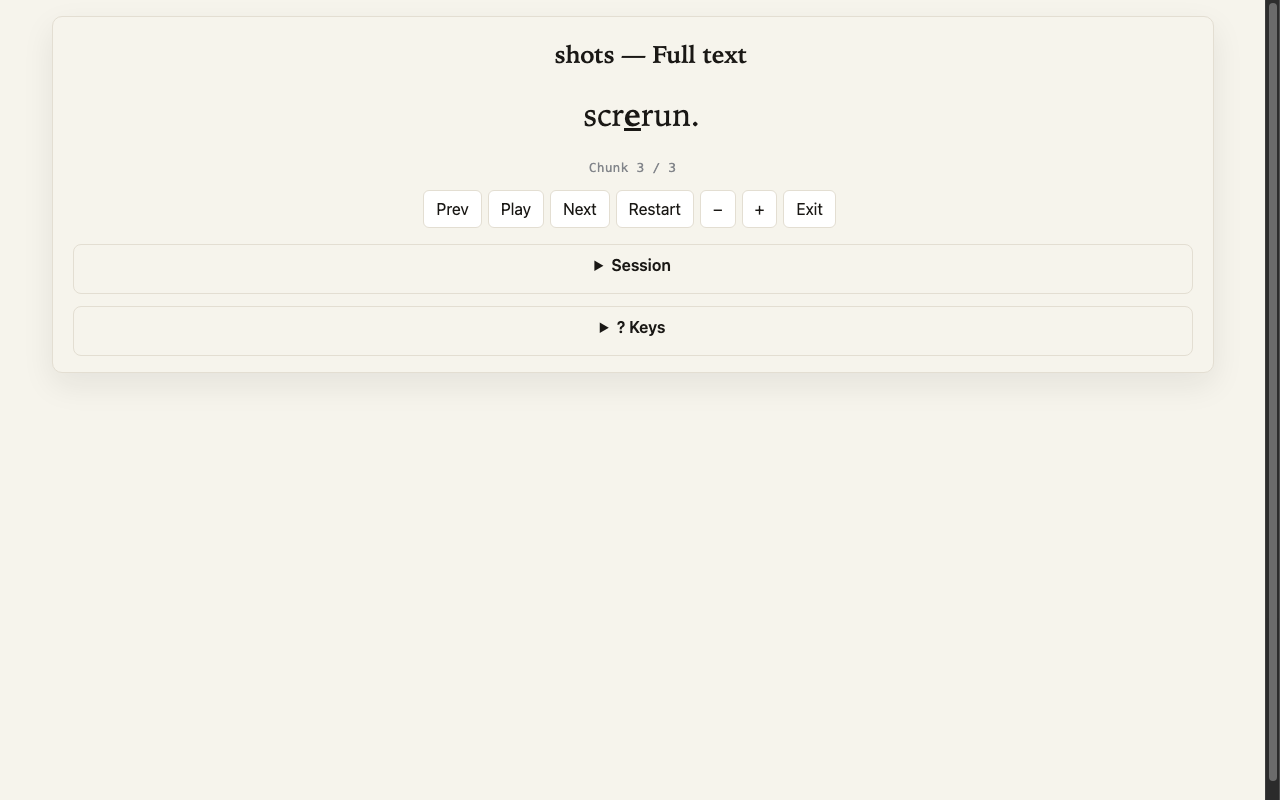
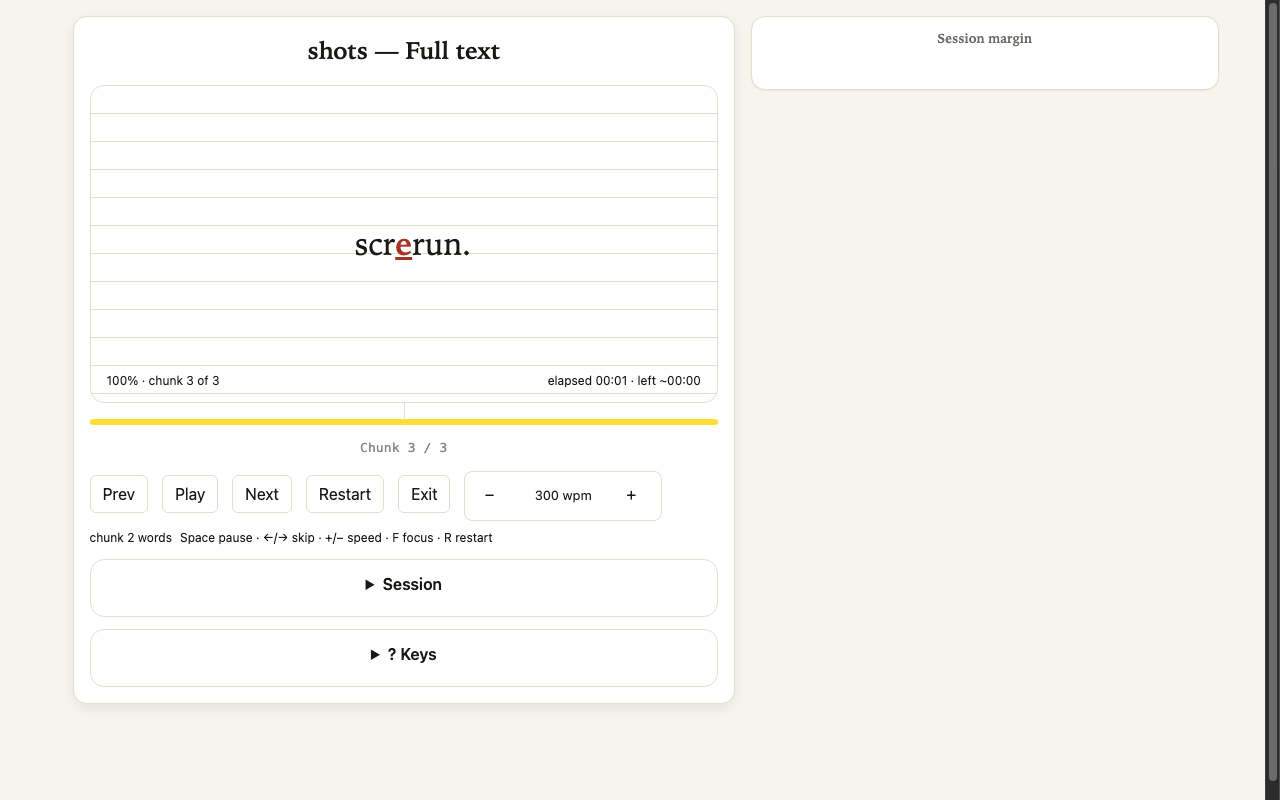
HC-C repair: ticket 27 player fidelity to approved prototype (ruled stage, two-column, rail card, F key)

diff --git a/src/ui/player-view.js b/src/ui/player-view.js
@@ -1,6 +1,6 @@
 // RSVP player view: ORP-anchored renderer, keyboard map, SR/reduced-motion mode, settings controls.
 // Consumes an INJECTED player (src/lib/player.js); never creates timers or players.
-// Contract: createPlayerView(root, {onSessionEnd, onExit, onSettingsChange, onGoalChange})
+// Contract: createPlayerView(root, {onSessionEnd, onExit, onSettingsChange, onGoalChange, onFocusToggle})
 //   -> {start({player, text, goal}), showSrText(text), hide(), renderSettings(settings), renderRail(ticks), setGoal(goal), clearGoal()}
 
 import { announce, prefersReducedMotion } from './a11y.js';
@@ -9,7 +9,7 @@ import { splitSentences as splitSentencesLib } from '../lib/text.js';
 const SENTENCE_END = /[.!?]["')\]]*\s*$/;
 
 
-export function createPlayerView(root, { onSessionEnd, onExit, onSettingsChange, onGoalChange } = {}) {
+export function createPlayerView(root, { onSessionEnd, onExit, onSettingsChange, onGoalChange, onFocusToggle } = {}) {
   let player = null;
   let chunkCount = 0;
   let currentWpm = 300;
@@ -25,8 +25,8 @@ export function createPlayerView(root, { onSessionEnd, onExit, onSettingsChange,
   header.className = 'player-title';
 
   // Goal chip (M-P05B): hidden unless a well-formed goal is set via setGoal().
-  const goalChip = document.createElement('p');
-  goalChip.className = 'player-goal';
+  const goalChip = document.createElement('span');
+  goalChip.className = 'player-goal chip goal';
   goalChip.hidden = true;
 
   const stage = document.createElement('div');
@@ -38,10 +38,30 @@ export function createPlayerView(root, { onSessionEnd, onExit, onSettingsChange,
   orp.className = 'rsvp-orp';
   const right = document.createElement('span');
   right.className = 'rsvp-right';
-  stage.append(left, orp, right);
+  // Prototype: ruled stage with meta rows above/below the anchored word.
+  const stageTop = document.createElement('div');
+  stageTop.className = 'stage-meta top';
+  const stageBottom = document.createElement('div');
+  stageBottom.className = 'stage-meta bottom';
+  const stageCounts = document.createElement('span');
+  stageCounts.className = 'muted data player-counts';
+  const stageClock = document.createElement('span');
+  stageClock.className = 'muted data player-elapsed';
+  stageBottom.append(stageCounts, stageClock);
+  stageTop.append(goalChip);
+  stage.append(stageTop, left, orp, right, stageBottom);
 
   const progress = document.createElement('p');
   progress.className = 'player-progress';
+  const progressBar = document.createElement('div');
+  progressBar.className = 'player-progress-bar';
+  progressBar.setAttribute('role', 'progressbar');
+  progressBar.setAttribute('aria-valuemin', '0');
+  progressBar.setAttribute('aria-valuemax', '100');
+  progressBar.setAttribute('aria-valuenow', '0');
+  progressBar.setAttribute('aria-label', 'Chapter progress');
+  const progressFill = document.createElement('span');
+  progressBar.appendChild(progressFill);
 
   const controls = document.createElement('div');
   controls.className = 'player-controls';
@@ -58,9 +78,29 @@ export function createPlayerView(root, { onSessionEnd, onExit, onSettingsChange,
   const playBtn = makeButton('Play', 'play');
   const nextBtn = makeButton('Next', 'next');
   const restartBtn = makeButton('Restart', 'restart');
-  const slowerBtn = makeButton('−', 'slower');
-  const fasterBtn = makeButton('+', 'faster');
+  // Speed cluster (prototype): − value + in one control.
+  const speedCluster = document.createElement('span');
+  speedCluster.className = 'player-speed';
+  const slowerBtn = document.createElement('button');
+  slowerBtn.type = 'button';
+  slowerBtn.className = 'player-btn player-btn-slower btn quiet';
+  slowerBtn.textContent = '−';
+  slowerBtn.setAttribute('aria-label', 'Slower');
+  const speedValue = document.createElement('span');
+  speedValue.className = 'player-speed-value data';
+  const fasterBtn = document.createElement('button');
+  fasterBtn.type = 'button';
+  fasterBtn.className = 'player-btn player-btn-faster btn quiet';
+  fasterBtn.textContent = '+';
+  fasterBtn.setAttribute('aria-label', 'Faster');
+  speedCluster.append(slowerBtn, speedValue, fasterBtn);
+  const chunkChip = document.createElement('span');
+  chunkChip.className = 'chip player-chunk-chip';
+  const keysHint = document.createElement('span');
+  keysHint.className = 'muted player-keys-hint';
+  keysHint.textContent = 'Space pause · ←/→ skip · +/− speed · F focus · R restart';
   const exitBtn = makeButton('Exit', 'exit');
+  controls.append(speedCluster, chunkChip, keysHint);
 
   const settingsRow = document.createElement('div');
   settingsRow.className = 'player-settings';
@@ -123,7 +163,7 @@ export function createPlayerView(root, { onSessionEnd, onExit, onSettingsChange,
   const helpSummary = document.createElement('summary');
   helpSummary.textContent = '? Keys';
   const helpList = document.createElement('ul');
-  for (const [key, action] of [['Space', 'pause / resume'], ['← →', 'step chunk'], ['↑ ↓ or + −', 'speed'], ['R', 'restart'], ['Esc', 'exit'], ['?', 'this list']]) {
+  for (const [key, action] of [['Space', 'pause / resume'], ['← →', 'step chunk'], ['↑ ↓ or + −', 'speed'], ['R', 'restart'], ['F', 'focus mode'], ['Esc', 'exit'], ['?', 'this list']]) {
     const li = document.createElement('li');
     li.textContent = `${key}: ${action}`;
     helpList.appendChild(li);
@@ -169,16 +209,22 @@ export function createPlayerView(root, { onSessionEnd, onExit, onSettingsChange,
   recognition.append(recognitionPrompt, recognitionForm, recognitionScore);
 
   // Marginalia rail (S3): one pencil tick per session, best in marker.
-  const rail = document.createElement('div');
+  const rail = document.createElement('aside');
   rail.className = 'player-rail';
   rail.setAttribute('aria-label', 'Session margin');
+  const railTitle = document.createElement('h3');
+  railTitle.className = 'player-rail-title';
+  railTitle.textContent = 'Session margin';
+  const railTicks = document.createElement('div');
+  railTicks.className = 'player-rail-ticks';
+  rail.append(railTitle, railTicks);
 
   const pageCol = document.createElement('div');
   pageCol.className = 'player-page';
 
   // Views own their subtree: replace any shell placeholder content.
   root.replaceChildren(rail, pageCol, srPanel, recognition);
-  pageCol.append(header, goalChip, stage, progress, controls, sessionDetails, helpDetails);
+  pageCol.append(header, stage, progressBar, progress, controls, sessionDetails, helpDetails);
 
   // ---- live goal tracking ----
   let goal = null; // { type: 'wpm'|'words'|'time', target: number } | null
@@ -275,8 +321,24 @@ export function createPlayerView(root, { onSessionEnd, onExit, onSettingsChange,
     announce('Recognition check answered');
   });
 
+  function fmtClock(ms) {
+    const total = Math.max(0, Math.round(ms / 1000));
+    return `${String(Math.floor(total / 60)).padStart(2, '0')}:${String(total % 60).padStart(2, '0')}`;
+  }
+
   function renderProgress(index) {
     progress.textContent = chunkCount > 0 ? `Chunk ${index + 1} / ${chunkCount}` : '';
+    const pct = chunkCount > 0 ? Math.min(100, Math.round(((index + 1) / chunkCount) * 100)) : 0;
+    progressBar.setAttribute('aria-valuenow', String(pct));
+    progressFill.style.width = `${pct}%`;
+    stageCounts.textContent = chunkCount > 0 ? `${pct}% · chunk ${index + 1} of ${chunkCount}` : '';
+    // Honest estimate: remaining chunks at the current pace.
+    const liveActive = activeAccumMs + (activeSince ? Date.now() - activeSince : 0);
+    const remainingChunks = Math.max(0, chunkCount - (index + 1));
+    const estPerChunk = currentWpm > 0 ? ((Number(settings.chunkSize) || 1) * 60000) / currentWpm : 0;
+    stageClock.textContent = chunkCount > 0
+      ? `elapsed ${fmtClock(liveActive)} · left ~${fmtClock(remainingChunks * estPerChunk)}`
+      : '';
     renderGoal();
   }
 
@@ -391,6 +453,11 @@ export function createPlayerView(root, { onSessionEnd, onExit, onSettingsChange,
         event.preventDefault();
         helpDetails.open = !helpDetails.open;
         break;
+      case 'f':
+      case 'F':
+        event.preventDefault();
+        onFocusToggle?.();
+        break;
       default:
         break;
     }
@@ -438,6 +505,7 @@ export function createPlayerView(root, { onSessionEnd, onExit, onSettingsChange,
           activeSince = 0;
         }
         playBtn.textContent = playing ? 'Pause' : 'Play';
+        speedValue.textContent = `${Math.round(currentWpm)} wpm`;
         renderGoal();
       });
       player.on('end', () => onSessionEnd?.({
@@ -466,8 +534,8 @@ export function createPlayerView(root, { onSessionEnd, onExit, onSettingsChange,
   }
 
   function renderRail(ticks) {
-    const hadTicks = rail.childElementCount > 0;
-    rail.replaceChildren();
+    const hadTicks = railTicks.childElementCount > 0;
+    railTicks.replaceChildren();
     const list = Array.isArray(ticks) ? ticks : [];
     list.forEach((tick, index) => {
       const mark = document.createElement('span');
@@ -475,7 +543,7 @@ export function createPlayerView(root, { onSessionEnd, onExit, onSettingsChange,
       mark.style.width = `${Math.max(6, Math.min(28, Math.round((tick.wpm ?? 0) / 40)))}px`;
       if (hadTicks) mark.style.animationDelay = `${index * 30}ms`;
       mark.title = `Lap ${index + 1}: ${Math.round(tick.wpm ?? 0)} wpm${tick.best ? ' (best)' : ''}`;
-      rail.appendChild(mark);
+      railTicks.appendChild(mark);
     });
   }
 
@@ -489,6 +557,8 @@ export function createPlayerView(root, { onSessionEnd, onExit, onSettingsChange,
     drillSel.value = settings.drill ? 'on' : 'off';
     previewSel.value = String(settings.previewWords ?? 2);
     if (typeof settings.wpm === 'number') currentWpm = settings.wpm;
+    speedValue.textContent = `${Math.round(currentWpm)} wpm`;
+    chunkChip.textContent = `chunk ${settings.chunkSize} word${Number(settings.chunkSize) === 1 ? '' : 's'}`;
     applyStyles();
     setSrMode(settings.reducedMotion === 'on' || (settings.reducedMotion === 'auto' && prefersReducedMotion()));
     renderProgress(Math.max(0, (player?.getState?.().index ?? 1) - 1));

diff --git a/styles/app.css b/styles/app.css
@@ -137,30 +137,58 @@ label { margin-right: 10px; }
 
 /* S3: ORP anchor — grid keeps the ORP character at a fixed x */
 .rsvp-stage {
+  position: relative;
   display: grid;
   grid-template-columns: 1fr auto 1fr;
   align-items: center;
-  margin: 1.25rem 0;
+  background: repeating-linear-gradient(to bottom, transparent 0 27px, var(--rule) 27px 28px), var(--color-surface);
+  border: 1px solid var(--rule);
+  border-radius: var(--radius-lg);
+  min-height: 220px;
+  padding: 48px 24px;
+  margin: 1rem 0;
   font-family: var(--font-display);
   font-size: 2rem;
   line-height: 1.4;
 }
 .rsvp-left { text-align: right; }
 .rsvp-right { text-align: left; }
-.rsvp-orp { text-align: center; font-weight: bold; color: var(--iron); }
+.rsvp-orp { text-align: center; font-weight: bold; color: var(--oxblood); }
 .rsvp-preview { color: var(--pencil); font-size: 0.7em; letter-spacing: 0.01em; }
-
-/* S3: page card reads thicker than chips */
-#view-player {
-  max-width: 46rem;
-  margin: 1rem auto;
-  padding: 1rem 1.25rem;
-  background: var(--folio);
-  border: 1px solid var(--rule);
-  border-radius: 10px;
-  box-shadow: 0 12px 32px rgba(26, 24, 21, 0.08);
+.stage-meta { position: absolute; left: 16px; right: 16px; display: flex; justify-content: space-between; align-items: center; gap: 8px; font-family: var(--font-ui); font-size: var(--text-xs); }
+.stage-meta.top { top: 12px; justify-content: flex-end; }
+.stage-meta.bottom { bottom: 12px; }
+.stage-meta .player-counts, .stage-meta .player-elapsed { white-space: nowrap; }
+.rsvp-stage::before {
+  content: "";
+  position: absolute;
+  left: 50%; top: 100%;
+  width: 1px; height: 18px;
+  background: var(--rule);
 }
-.player-title { font-family: var(--font-display); font-weight: 600; letter-spacing: -0.01em; margin: 0.25rem 0; }
+
+/* S3: page card reads thicker than chips; prototype two-column layout */
+#view-player {
+  display: grid;
+  grid-template-columns: minmax(0, 1.5fr) minmax(0, 1fr);
+  grid-template-areas: "page rail";
+  gap: var(--space-4);
+  align-items: start;
+  max-width: 1200px;
+  margin: 1rem auto;
+  padding: 0 var(--space-4);
+}
+.player-page { grid-area: page; }
+.player-rail { grid-area: rail; }
+.player-sr, .player-recognition { grid-column: 1 / -1; }
+.player-page {
+  background: var(--color-surface);
+  border: 1px solid var(--rule);
+  border-radius: var(--radius-lg);
+  padding: var(--space-4);
+  box-shadow: var(--elev-2);
+}
+.player-title { font-family: var(--font-display); font-weight: 600; letter-spacing: -0.01em; margin: 0 0 var(--space-2); font-size: var(--text-xl); }
 .player-progress, .player-recognition-score, .quiz-note, .dashboard-summary {
   font-family: var(--font-data);
   font-variant-numeric: tabular-nums;
@@ -168,19 +196,45 @@ label { margin-right: 10px; }
   font-size: 0.8125rem;
   letter-spacing: 0.01em;
 }
-.player-settings { margin-top: 0.5rem; font-size: 0.875rem; }
-.player-settings label { white-space: nowrap; }
+.player-progress-bar {
+  height: 6px;
+  background: var(--rule);
+  border-radius: var(--radius-pill);
+  overflow: hidden;
+  margin-top: var(--space-2);
+}
+.player-progress-bar > span { display: block; height: 100%; width: 0; background: var(--color-accent); transition: width var(--dur-status) var(--ease-calm); }
+.player-controls { display: flex; flex-wrap: wrap; gap: var(--space-2); align-items: center; margin-top: var(--space-3); }
+.player-speed {
+  display: inline-flex;
+  align-items: center;
+  gap: var(--space-1);
+  border: 1px solid var(--rule);
+  border-radius: var(--radius-md);
+  padding: 2px;
+  background: var(--color-surface);
+}
+.player-speed .player-speed-value { min-width: 84px; text-align: center; font-size: var(--text-sm); }
+.player-chunk-chip { font-size: var(--text-xs); }
+.player-keys-hint { font-size: var(--text-xs); }
+.player-settings { display: grid; gap: var(--space-2); margin-top: var(--space-3); font-size: 0.875rem; }
+.player-settings label { display: grid; gap: var(--space-1); white-space: nowrap; color: var(--color-text-muted); font-size: var(--text-xs); }
 
 /* S3: marginalia rail — one pencil tick per session, best in marker */
 .player-rail {
   display: flex;
   flex-direction: column;
   gap: 3px;
-  float: left;
-  width: 1.5rem;
-  margin: 0.25rem 0.75rem 0 0;
+  width: 100%;
   min-height: 3rem;
+  padding: var(--space-3);
+  border: 1px solid var(--rule);
+  border-radius: var(--radius-lg);
+  background: var(--color-surface);
+  box-shadow: var(--elev-1);
 }
+.player-rail-title { font-family: var(--font-display); font-size: var(--text-sm); margin: 0 0 var(--space-2); color: var(--color-text-muted); font-weight: 600; }
+.player-rail-ticks { display: flex; flex-direction: column; gap: 3px; }
 .player-rail .rail-tick {
   display: block;
   height: 2px;
@@ -397,14 +451,18 @@ main > section:not([hidden]) { animation: view-rise var(--dur-view) var(--ease-c
 
 /* S6: responsive — single column under 900px; transport sticky; rail becomes a strip */
 @media (max-width: 900px) {
-  #view-player { margin: 0.5rem; }
+  #view-player { grid-template-columns: minmax(0, 1fr); margin: 0.5rem; padding: 0; }
+  .player-page { padding: var(--space-3); }
+  .rsvp-stage { font-size: 1.6rem; padding: 44px 12px; }
   .player-rail {
-    float: none;
     flex-direction: row;
-    width: auto;
+    flex-wrap: wrap;
+    align-items: center;
     min-height: 0;
-    margin: 0 0 0.5rem;
+    padding: var(--space-2);
   }
+  .player-rail-ticks { flex-direction: row; align-items: center; }
+  .player-rail-title { margin: 0 var(--space-2) 0 0; }
   .player-rail .rail-tick { width: 6px; height: 6px; border-radius: 1px; }
   .player-controls {
     position: sticky;
@@ -567,20 +625,23 @@ main > section:not([hidden]) { animation: view-rise var(--dur-view) var(--ease-c
 .player-goal {
   display: inline-block;
   font-family: var(--font-data);
-  font-size: var(--text-sm);
-  background: var(--color-xp);
+  font-size: var(--text-xs);
+  background: var(--color-accent);
+  border: 1px solid var(--color-accent);
   color: var(--color-text);
-  border: 1px solid var(--rule);
   border-radius: var(--radius-pill);
   padding: var(--space-1) var(--space-3);
-  margin: var(--space-2) 0;
+  font-weight: 600;
 }
 .player-session, .player-help {
   border: 1px solid var(--rule);
-  border-radius: var(--radius-md);
-  padding: var(--space-2) var(--space-3);
+  border-radius: var(--radius-lg);
+  background: var(--color-surface);
+  padding: var(--space-3) var(--space-4);
   margin-top: var(--space-3);
 }
+#view-player > .player-page > .player-session,
+#view-player > .player-page > .player-help { margin-top: var(--space-3); }
 .player-session > summary, .player-help > summary {
   cursor: pointer;
   font-weight: 600;

diff --git a/src/app.js b/src/app.js
@@ -501,6 +501,14 @@ async function boot() {
       settings = { ...settings, goals, id: 'settings' };
       await persistSettings();
     },
+    onFocusToggle: () => {
+      // F key: app owns the chrome-hiding attribute; the view only requests it.
+      if (document.body.getAttribute('data-focus-mode') === 'true') {
+        document.body.removeAttribute('data-focus-mode');
+      } else {
+        document.body.setAttribute('data-focus-mode', 'true');
+      }
+    },
   });
 
   const quizView = createQuizView(sections.quiz, {

diff --git a/.scratch/speedreading-product-build/issues/27-player-fidelity.md b/.scratch/speedreading-product-build/issues/27-player-fidelity.md
@@ -13,3 +13,7 @@
 - [ ] Prototype structure ported (stage, rail, goal chip, session panel, keys)
 - [ ] Walkthrough 9c green; no timing/announcement regressions
 - [ ] Screenshots 390/1280 match the prototype's structure
+
+## Resolution
+
+Closed 2026-09-24. Player rebuilt to the prototype: two-column grid (page card + Session margin rail card), ruled-paper stage with anchored display-serif word and red ORP, stage meta (progress % · chunk count, elapsed/left estimate), progress bar (role=progressbar), transport row with speed cluster (− value +), chunk chip, keyboard hint, Session and ? Keys panels, F focus toggle (app-owned attribute), rail title + ticks. All test hooks preserved (.player-btn-*, .player-goal, .player-progress, .player-session, .player-help, .player-rail, .rsvp-orp, …). Evidence: walkthrough 100/100 GO; unit 177/177; a11y 17/17; gamify harness green; screenshots re-shot.
